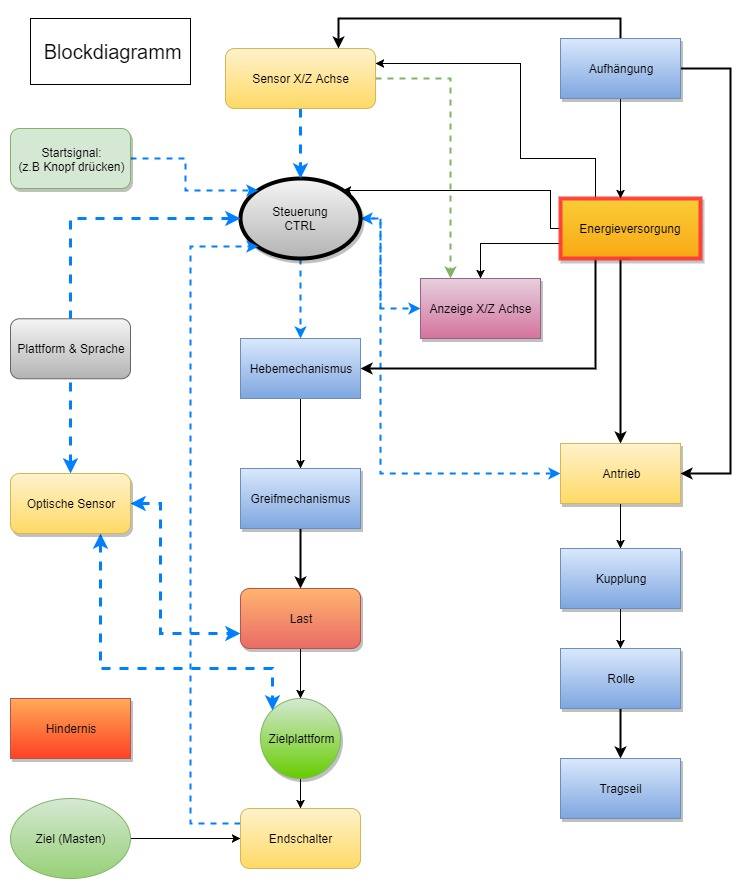
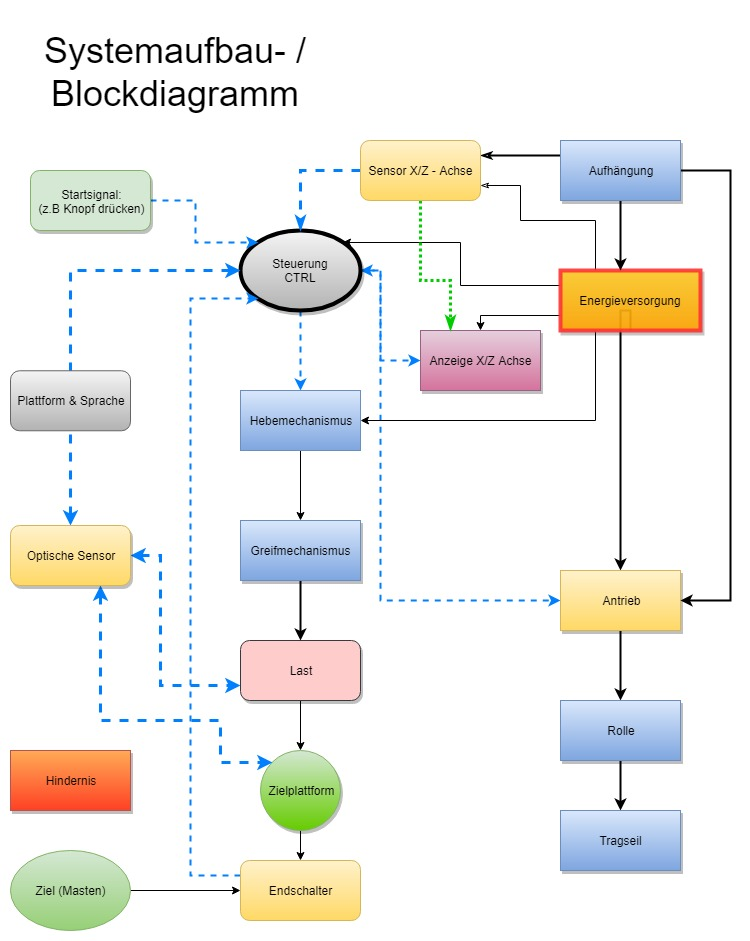
Schriibe, Bild aktualisiert

diff --git a/Projektdokumentation_PREN2.tex b/Projektdokumentation_PREN2.tex
@@ -200,6 +200,8 @@ Im Blockdiagramm (Abb. \ref{fig:Blockdiagramm}) sind die Schnittstellen graphisc
 	\label{fig:Blockdiagramm}
 \end{figure}
 
+\newpage
+
 \section{Komponenten}
 \label{sec:Pren02Komponenten}
 
@@ -213,18 +215,19 @@ Im Blockdiagramm (Abb. \ref{fig:Blockdiagramm}) sind die Schnittstellen graphisc
 \newpage
 
 \subsection{Aufhängung}
-Durch die unten gelenkige und gedämpft gelagerte Aufhängung kann die Winkeländerung, welche durch den Seildurchhang verursacht wird, kompensiert werden. Dabei hängt die Last durch den Schwerpunkt immer senkrecht nach unten. Durch das Gelenk (ähnlich wie bei einer Gondelbahn) wird der ganze Aufbau aber empfindlich gegen pendeln, weil das Gelenk kein Drehmoment aufnehmen kann. Dieses wird beispielsweise durch die Beschleunigung bei Anfahren oder Abbremsen erzeugt. Das Gelenk wird durch zwei Löcher und eine Schraube mit einer Sicherungsmutter realisiert. Zudem kann sich, je nach Aufbau, der Schwerpunkt der Laufkatze beim Anheben und Absetzen der Last ändern, was wiederum ein Drehmoment erzeugt. Mit Dämpfern kann das Drehmoment aufgenommen und ein Pendeln minimiert werden. Diese Dämpfer werden dann, im Prinzip einer Pendelstütze in der Mechanik, am einen Ende am Antrieb und am anderen Ende an der Aufhängung montiert. Zudem soll der Dämpfer möglichst horizontal angestellt sein, damit er die Pendelbewegung aufnehmen kann. In der Aufhängung werden der Hubmotor, die elektrischen Komponenten, die Energieversorgung und die Führungen der Hubeinrichtung angebracht. Diese besteht aus zwei Linearführungen, durch welche zwei Stäbe in einem Rohr hoch und hinuntergefahren werden. Weiter werden, je nach Notwendigkeit, Ausgleichsgewichte auf der Aufhängung positioniert, damit die Laufkatze zentral unter dem Seil hängt. Die Aufhängung wird komplett aus Aluminium gefertigt.
+%todo Abschnitt wahrscheinlich löschen
+Durch die unten gelenkige und gedämpft gelagerte Aufhängung kann die Winkeländerung, welche durch den Seildurchhang verursacht wird, kompensiert werden. Dabei hängt die Last durch den Schwerpunkt immer senkrecht nach unten. Durch das Gelenk (ähnlich wie bei einer Gondelbahn) wird der ganze Aufbau aber empfindlich gegen pendeln, weil das Gelenk kein Drehmoment aufnehmen kann. Dieses wird beispielsweise durch die Beschleunigung bei Anfahren oder Abbremsen erzeugt. Das Gelenk wird mit einer Messingbuchse und einer Schraube mit Sicherungsmutter realisiert. Zudem kann sich, je nach Aufbau, der Schwerpunkt der Laufkatze beim Anheben und Absetzen der Last ändern, was wiederum ein Drehmoment erzeugt. Mit Dämpfern kann das Drehmoment aufgenommen und ein Pendeln minimiert werden. Diese Dämpfer werden dann, im Prinzip einer Pendelstütze in der Mechanik, am einen Ende am Antrieb und am anderen Ende an der Aufhängung montiert. Zudem soll der Dämpfer möglichst horizontal angestellt sein, damit er die Pendelbewegung aufnehmen kann. AN der Aufhängung werden der Hubmotor, die elektrischen Komponenten, die Energieversorgung und die Führungen der Hubeinrichtung angebracht. Diese besteht aus zwei Linearführungen, durch welche zwei Stäbe in einem Rohr hoch und hinuntergefahren werden. Weiter werden, je nach Notwendigkeit, Ausgleichsgewichte auf der Aufhängung positioniert, damit die Laufkatze zentral unter dem Seil hängt.
 
 \subsection{Antrieb}
-Der Antrieb auf dem Seil wird mit drei Rädern aus Aluminium ausgeführt. Das mittlere Rad ist das angetriebene Rad. Es wird direkt von einem Schrittmotor angetrieben. Dies setzt voraus, dass die Achse des Motors um den Radius des Antriebsrades über dem Seil sein muss. Dies hält die Ausfallwahrscheinlichkeit tief, da keine Riemen-, oder Zahnradübersetzung notwendig sind. Zudem kann auch der Schlupf klein gehalten werden. Weil der Motor aber über dem Seil liegt, ist auch der Schwerpunkt des gesamten Gerätes höher. Dies macht den Lastausgleich schwieriger und begünstigt Schwingungen.
+Der Antrieb auf dem Seil wird mit drei Rädern ausgeführt. Das mittlere Rad aus Gummi ist das angetriebene Rad. Es wird direkt von einem Schrittmotor angetrieben. Dies setzt voraus, dass die Achse des Motors um den Radius des Antriebsrades über dem Seil sein muss. Die Ausfallwahrscheinlichkeit ist dadurch tief, da keine Riemen-, oder Zahnradübersetzung notwendig sind. Zudem kann auch der Schlupf klein gehalten werden. Weil der Motor aber über dem Seil angebracht ist, liegt auch der Schwerpunkt des gesamten Gerätes höher. Dies macht den Lastausgleich schwieriger und begünstigt Schwingungen.
 \\
-Vor und hinter dem Antriebsrad sind im Abstand von 7cm zwei Führungsräder angebracht. Diese sind in der Höhe verstellbar und müssen manuell im voraus eingestellt werden. Die Aufgabe dieser Räder ist die Schwingung in x-Richtung zu minimieren und den Druck des Seiles auf das Antriebsrad zu erhöhen. Letzteres hat zur Folge, dass die Reibkraft sich erhöht und somit der Schlupf und die Gefahr von Rutschen auf dem Seil minimiert wird. Um die Reibkraft zusätzlich zu erhöhen, wird die Laufrille des Antriebsrades aus Aluminium mit einer Gummibeschichtung versehen.
+Vor und hinter dem Antriebsrad sind im Abstand von 7cm zwei Führungsräder angebracht. Diese sind in der Höhe verstellbar und müssen manuell im voraus eingestellt werden. Die Aufgabe dieser Räder ist die Schwingung in x-Richtung zu minimieren und den Druck des Seiles auf das Antriebsrad zu erhöhen. Letzteres hat zur Folge, dass die Reibkraft sich erhöht und somit der Schlupf und die Gefahr von Rutschen auf dem Seil minimiert wird.
 
 \subsection{Kamerahalterung}
 Die Kamera ist etwa 20 Zentimeter vor der Seilwinde für den Hub angebracht. Dafür wurde ein 11 Zentimeter langes Winkelprofil aus Aluminium an der Grundplatte angeschraubt. An diesem ist ein kleiner Aluminiumwinkel befestigt, der die Kamera hält. Dieser ist schwenkbar, damit die Kamera optimal ausgerichtet werden kann. Dabei ist essentiell wichtig, dass die Grundplatte immer Parallel zum Boden liegt, da sonst die Kamera falsche Daten liefern würde und somit die Genauigkeit beim Absetzen stark beeinträchtigen würde. Die RasPi-Kamera wird mit 4 Schrauben an dem Winkel befestigt. Zusätzlich zu der Kamera werden auch die beiden Ultraschallsensoren und der Endschalter an der Halterung befestigt.
 
 \subsection{Regelung und Steuerung}
-Als Kern der elektronischen Steuerung wird das \textit{LoFive} Board verwendet, welches mit dem \textit{SiFive Freedom E310} Mikroprozessor bestückt ist. Dieser wurde nach dem offenen Standard der RISC-V Foundation konstruiert und ist daher für jeden einsehbar. Als Programmiersprache wird voraussichtlich Rust verwendet.
+Als Kern der elektronischen Steuerung wird das \textit{ArduinoDue} Board verwendet, welches mit dem \textit{Atmel ATSAM3X8E} Mikroprozessor bestückt ist. Programmiert wurde mit C++.
 
 Über das Board werden zwei Schrittmotoren-Treiber sowie ein LCD-Display angesteuert. Zur Rückmeldung werden zwei Ultraschallsensoren und ein \textit{Raspberry Pi 3 Model B} (RasPi) verwendet.
 
@@ -232,7 +235,7 @@ Weil die Steuerung vom RasPi die Richtung und Distanz zur Zielplattform übermit
 
 \subsection{Positionsanzeige}
 
-Auf dem LCD-Display werden die Koordinaten in x- sowie z-Richtung dargestellt. Die x-Koordinate wird mithilfe des Schrittmotors und zusätzlich mit einem Ultraschall-Distanzsensor bestimmt. Die z-Koordinate wird mittels einem weiteren Ultraschall-Sensor erkannt. Bei z-Koordinate muss jedoch noch einen Betrag abgezogen werden, da der Ultraschallsensor an der Grundplatte befestigt ist und die angezeigten Koordinaten müssen die der transportierten Last sein. Wieviel abgezogen werden muss, wird über den Hubschrittmotor berechnet. Sobald die Daten des Ultraschall-Sensors stark von der Durchhangsberechnung abweicht, sollen die Daten der Durchhangsberechnung angezeigt werden. Damit können Fehler verhindert werden, welche durch Hindernisse auftreten.
+Auf dem LCD-Display werden die Koordinaten in x- sowie z-Richtung dargestellt. Zwei Ultraschallsensoren, je einer in x-, und z-Richtung, messen die jeweiligen Distanzen. Bei z-Koordinate muss jedoch noch einen Betrag abgezogen werden, da der Ultraschallsensor an der Grundplatte befestigt ist und die angezeigten Koordinaten die der transportierten Last sein müssen. Wie viel abgezogen werden muss, wird über den Hubschrittmotor berechnet. Damit bei der Fahrt über die Hindernisse nicht ein falscher Wert angezeigt wird, werden plötzliche grosse Änderungen nicht berücksichtigt und der vorherige Wert wird angezeigt. Der LCD-Display ist in Fahrtrichtung rechts mit Schrauben an einer Halterung aus dem 3D-Drucker befestigt. Die Halterung wiederum ist auf die Grundplatte gesteckt.
 
 \subsection{Zielerkennung}
 \subsubsection{Systemübersicht}
@@ -345,9 +348,9 @@ Für die serielle Übertragung müssen Baudrate, Port, Databits, Parity Check, S
 
 \subsection{Last greifen und absetzen}
 
-Das Greifen der Last erfolgt über einen gelenkig gelagerten Haken. Die gelenkige Lagerung ermöglicht einen grösseren Toleranzbereich in Richtung Z-Achse zum Anheben der Last. Versuche haben gezeigt, dass bei Berührung der Last der Greifer nach hinten gekippt wird und durch das Vorwärts bewegen des Fahrzeuges sich in den Haken der Last einfädelt. Siehe \textquotedblleft Testprotokoll Last greifen mit Haken\textquotedblright und \textquotedblleft Testprotokoll Last absetzen mit Haken\textquotedblright  im Anhang \ref{app:ch:Versuche}. Durch einen gekrümmten Draht an der Unterseite des Greifers wird sicher gestellt, dass die Last nach dem Anheben mittig zentriert und durch die Fahrt nicht verschoben wird.
+Das Greifen der Last erfolgt über einen gelenkig gelagerten Haken. Die gelenkige Lagerung ermöglicht einen grösseren Toleranzbereich in Richtung z-Achse zum Anheben der Last. Versuche haben gezeigt, dass bei Berührung der Last der Greifer nach hinten gekippt wird und durch das Vorwärts bewegen des Fahrzeuges sich in den Haken der Last einfädelt. Siehe \textquotedblleft Testprotokoll Last greifen mit Haken\textquotedblright und \textquotedblleft Testprotokoll Last absetzen mit Haken\textquotedblright  im Anhang \ref{app:ch:Versuche}. Durch einen gekrümmten Draht an der Unterseite des Greifers wird sicher gestellt, dass die Last nach dem Anheben mittig zentriert und durch die Fahrt nicht verschoben wird.
 
-Nachdem das Fahrzeug die Zielplattform erreicht hat, wird die Last vorsichtig abgesetzt. Das Ausfädeln des Drahtes aus dem Haken erfolgt durch eine Rückwärts\-bewegung des Fahrzeuges.
+Nachdem das Fahrzeug die Zielplattform erreicht hat, wird die Last vorsichtig abgesetzt. Das Ausfädeln des Drahtes aus dem Haken erfolgt durch eine Rückwärtsbewegung des Fahrzeuges.
 
 Der Greifer wird aus Aluminium gefertigt. Dieser besteht aus gebogenem Flachmaterial, durch welchen im oberen Bereich eine Drehachse und im unteren Bereich ein gebogener Draht durch ein Loch geführt wird. Die Drehachse dient zudem noch als Befestigung des Greifers an die Hubvorrichtung.
 
